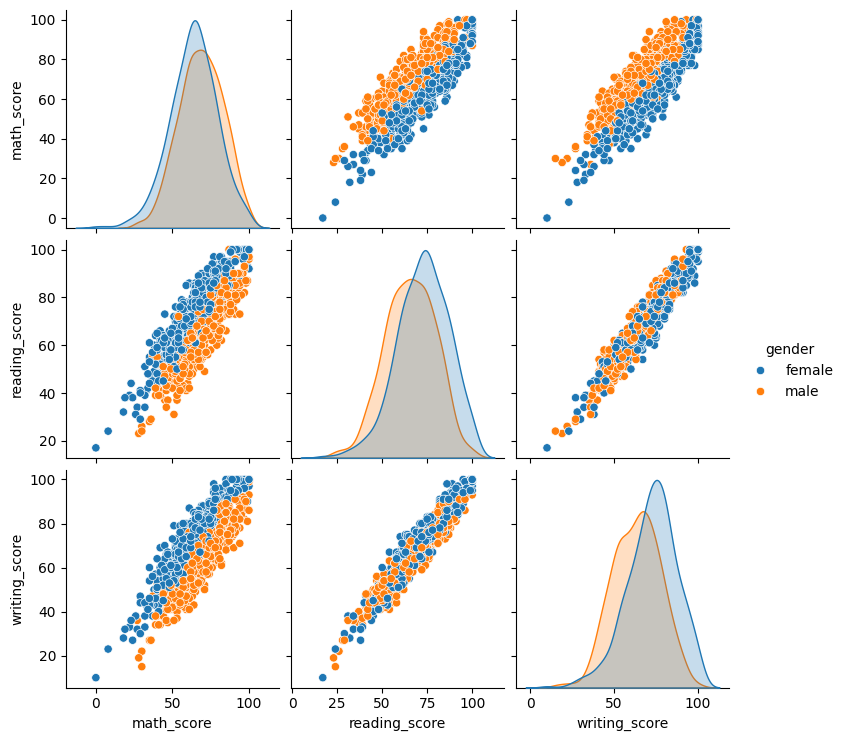
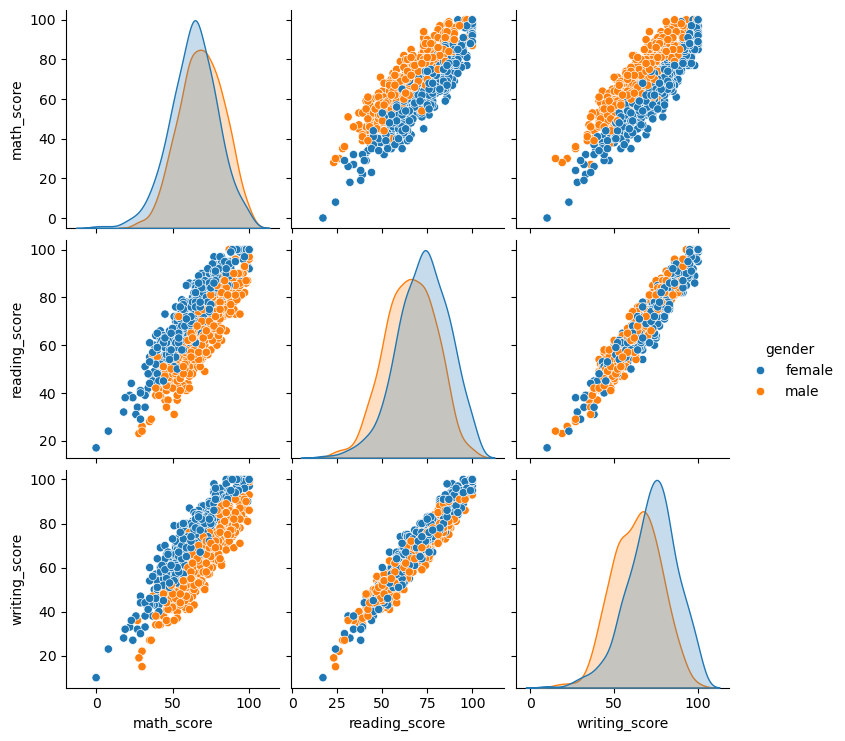
little bug fix

diff --git a/application.py b/application.py
@@ -2,6 +2,8 @@ from  flask import Flask,request, render_template
 import pandas as pd
 import numpy as np
 import seaborn as sns
+import matplotlib
+matplotlib.use('Agg')
 import matplotlib.pyplot as plt
 from sklearn.preprocessing import StandardScaler
 
@@ -33,7 +35,7 @@ def predict_datapoint():
         predict_pipeline = PredictPipeline()
         results = predict_pipeline.predict(pred_df)
 
-        chart_data = pd.read_csv("artifacts\data.csv")
+        chart_data = pd.read_csv("artifacts/data.csv")
         chart_one = sns.pairplot(chart_data,hue = 'gender')
         chart_one.savefig("static/images/pairplot.png", bbox_inches='tight')
         plt.close('all')